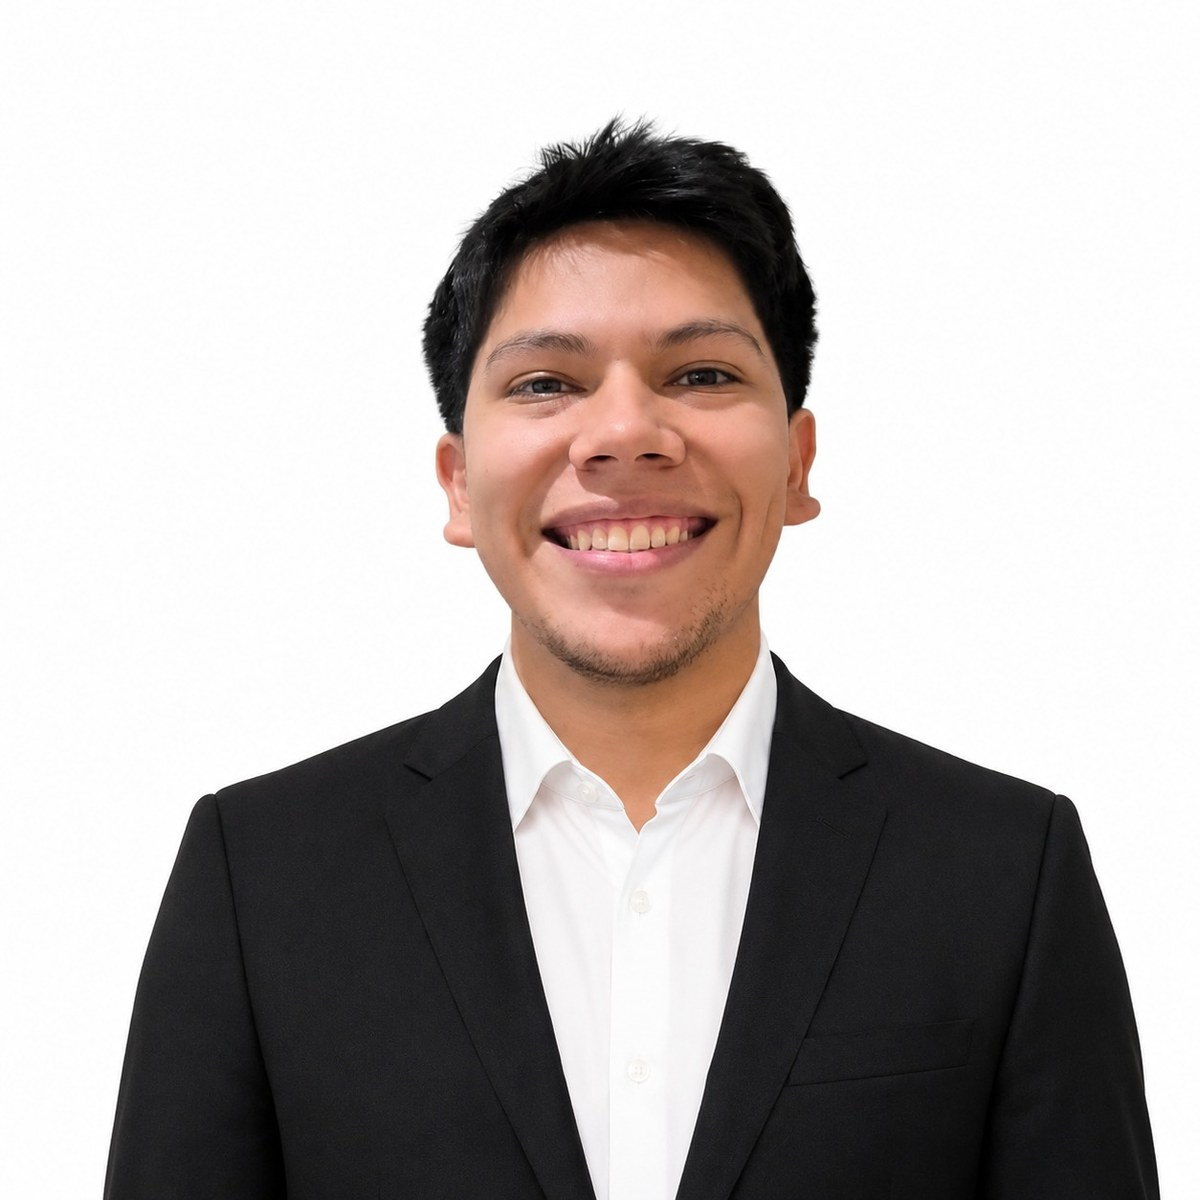
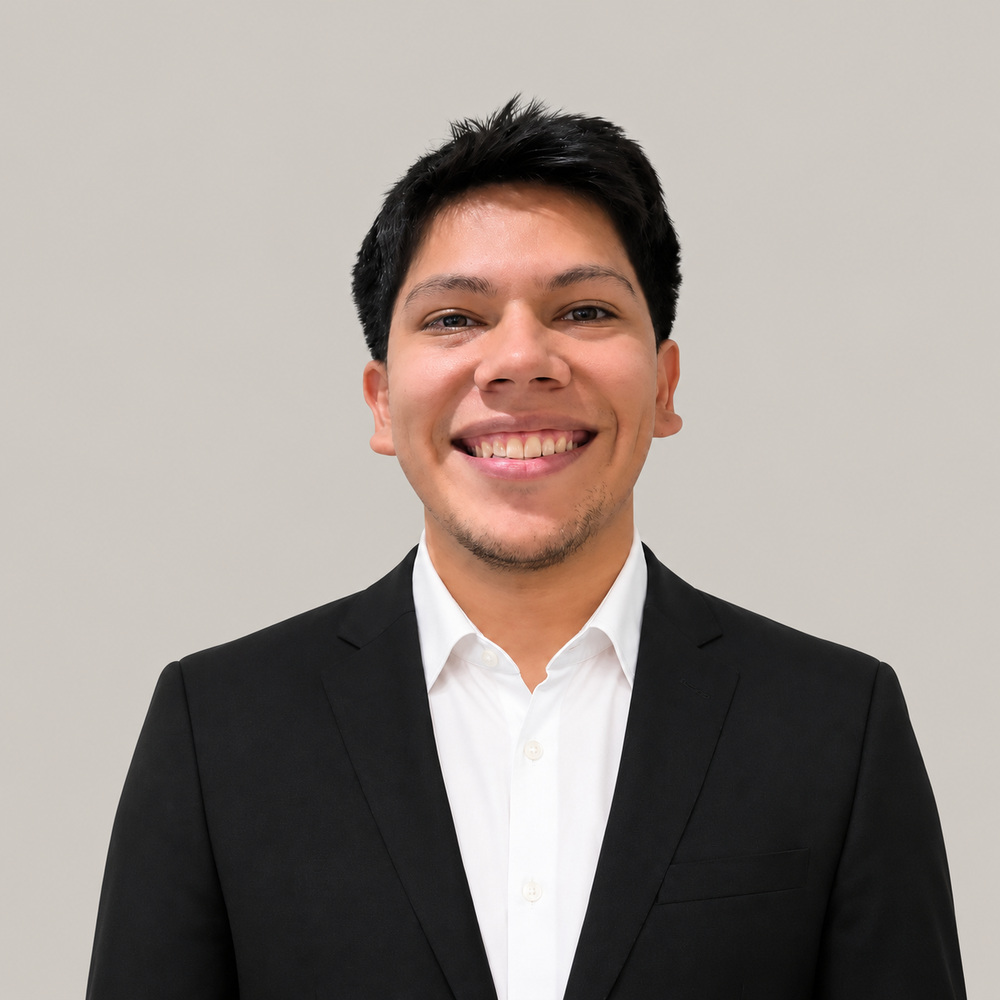
Sustituye retrato cuadrado de Thadeo Gómez (#123)

diff --git a/app/globals.institutional.css b/app/globals.institutional.css
@@ -2218,6 +2218,8 @@
 .advisor-hero-grid { display:grid; grid-template-columns:minmax(300px,.72fr) minmax(0,1.28fr); gap:4rem; align-items:center; }
 .advisor-portrait { position:relative; aspect-ratio:4/5; border-radius:20px; overflow:hidden; }
 .advisor-portrait img { object-fit:cover; object-position:center top; }
+.advisor-portrait.has-square-photo { aspect-ratio:1/1; }
+.advisor-portrait.has-square-photo img { object-fit:contain; object-position:center; }
 .advisor-hero-role { color:#f2b49a; font-weight:700; margin:.7rem 0; }
 .advisor-headline { max-width:720px; color:rgba(255,255,255,.82); font-size:1.08rem; line-height:1.75; }
 .advisor-cert-highlight { display:flex; gap:.8rem; align-items:flex-start; margin:1.2rem 0; padding:1rem; border-radius:12px; background:rgba(255,255,255,.1); border:1px solid rgba(255,255,255,.16); }

diff --git a/lib/teamDirectory.js b/lib/teamDirectory.js
@@ -36,6 +36,6 @@ export const advisors = [
   { name: 'Miriam Valdes', role: 'Asesora inmobiliaria', phone: '8127589230' },
   { name: 'Nelson Tovar', role: 'Asesor inmobiliario', phone: '8123720981' },
   { name: 'Enereo Cantu', role: 'Asesor inmobiliario', phone: '8110504582' },
-  { name: 'Thadeo Gómez', role: 'Asesor inmobiliario', phone: '8341321381', profileSlug: 'thadeo-gomez' },
+  { name: 'Thadeo Gómez', role: 'Asesor inmobiliario', phone: '8341321381', profileSlug: 'thadeo-gomez', photo: '/equipo/thadeo-gomez.jpg' },
   { name: 'Yolanda Cantu', role: 'Asesora inmobiliaria', phone: '8117200706' },
 ];

diff --git a/app/equipo/[slug]/page.jsx b/app/equipo/[slug]/page.jsx
@@ -128,7 +128,7 @@ export default async function TeamMemberPage({ params }) {
 
       <section className="advisor-hero">
         <div className="advisor-shell advisor-hero-grid">
-          <div className={`advisor-portrait team-tone-${member.portraitTone || 'terracota'}`}>
+          <div className={`advisor-portrait team-tone-${member.portraitTone || 'terracota'}${member.slug === 'thadeo-gomez' ? ' has-square-photo' : ''}`}>
             <Image
               src={member.photo}
               alt={`Retrato profesional de ${member.name}, ${member.role} en Rednorte Inmobiliaria`}
